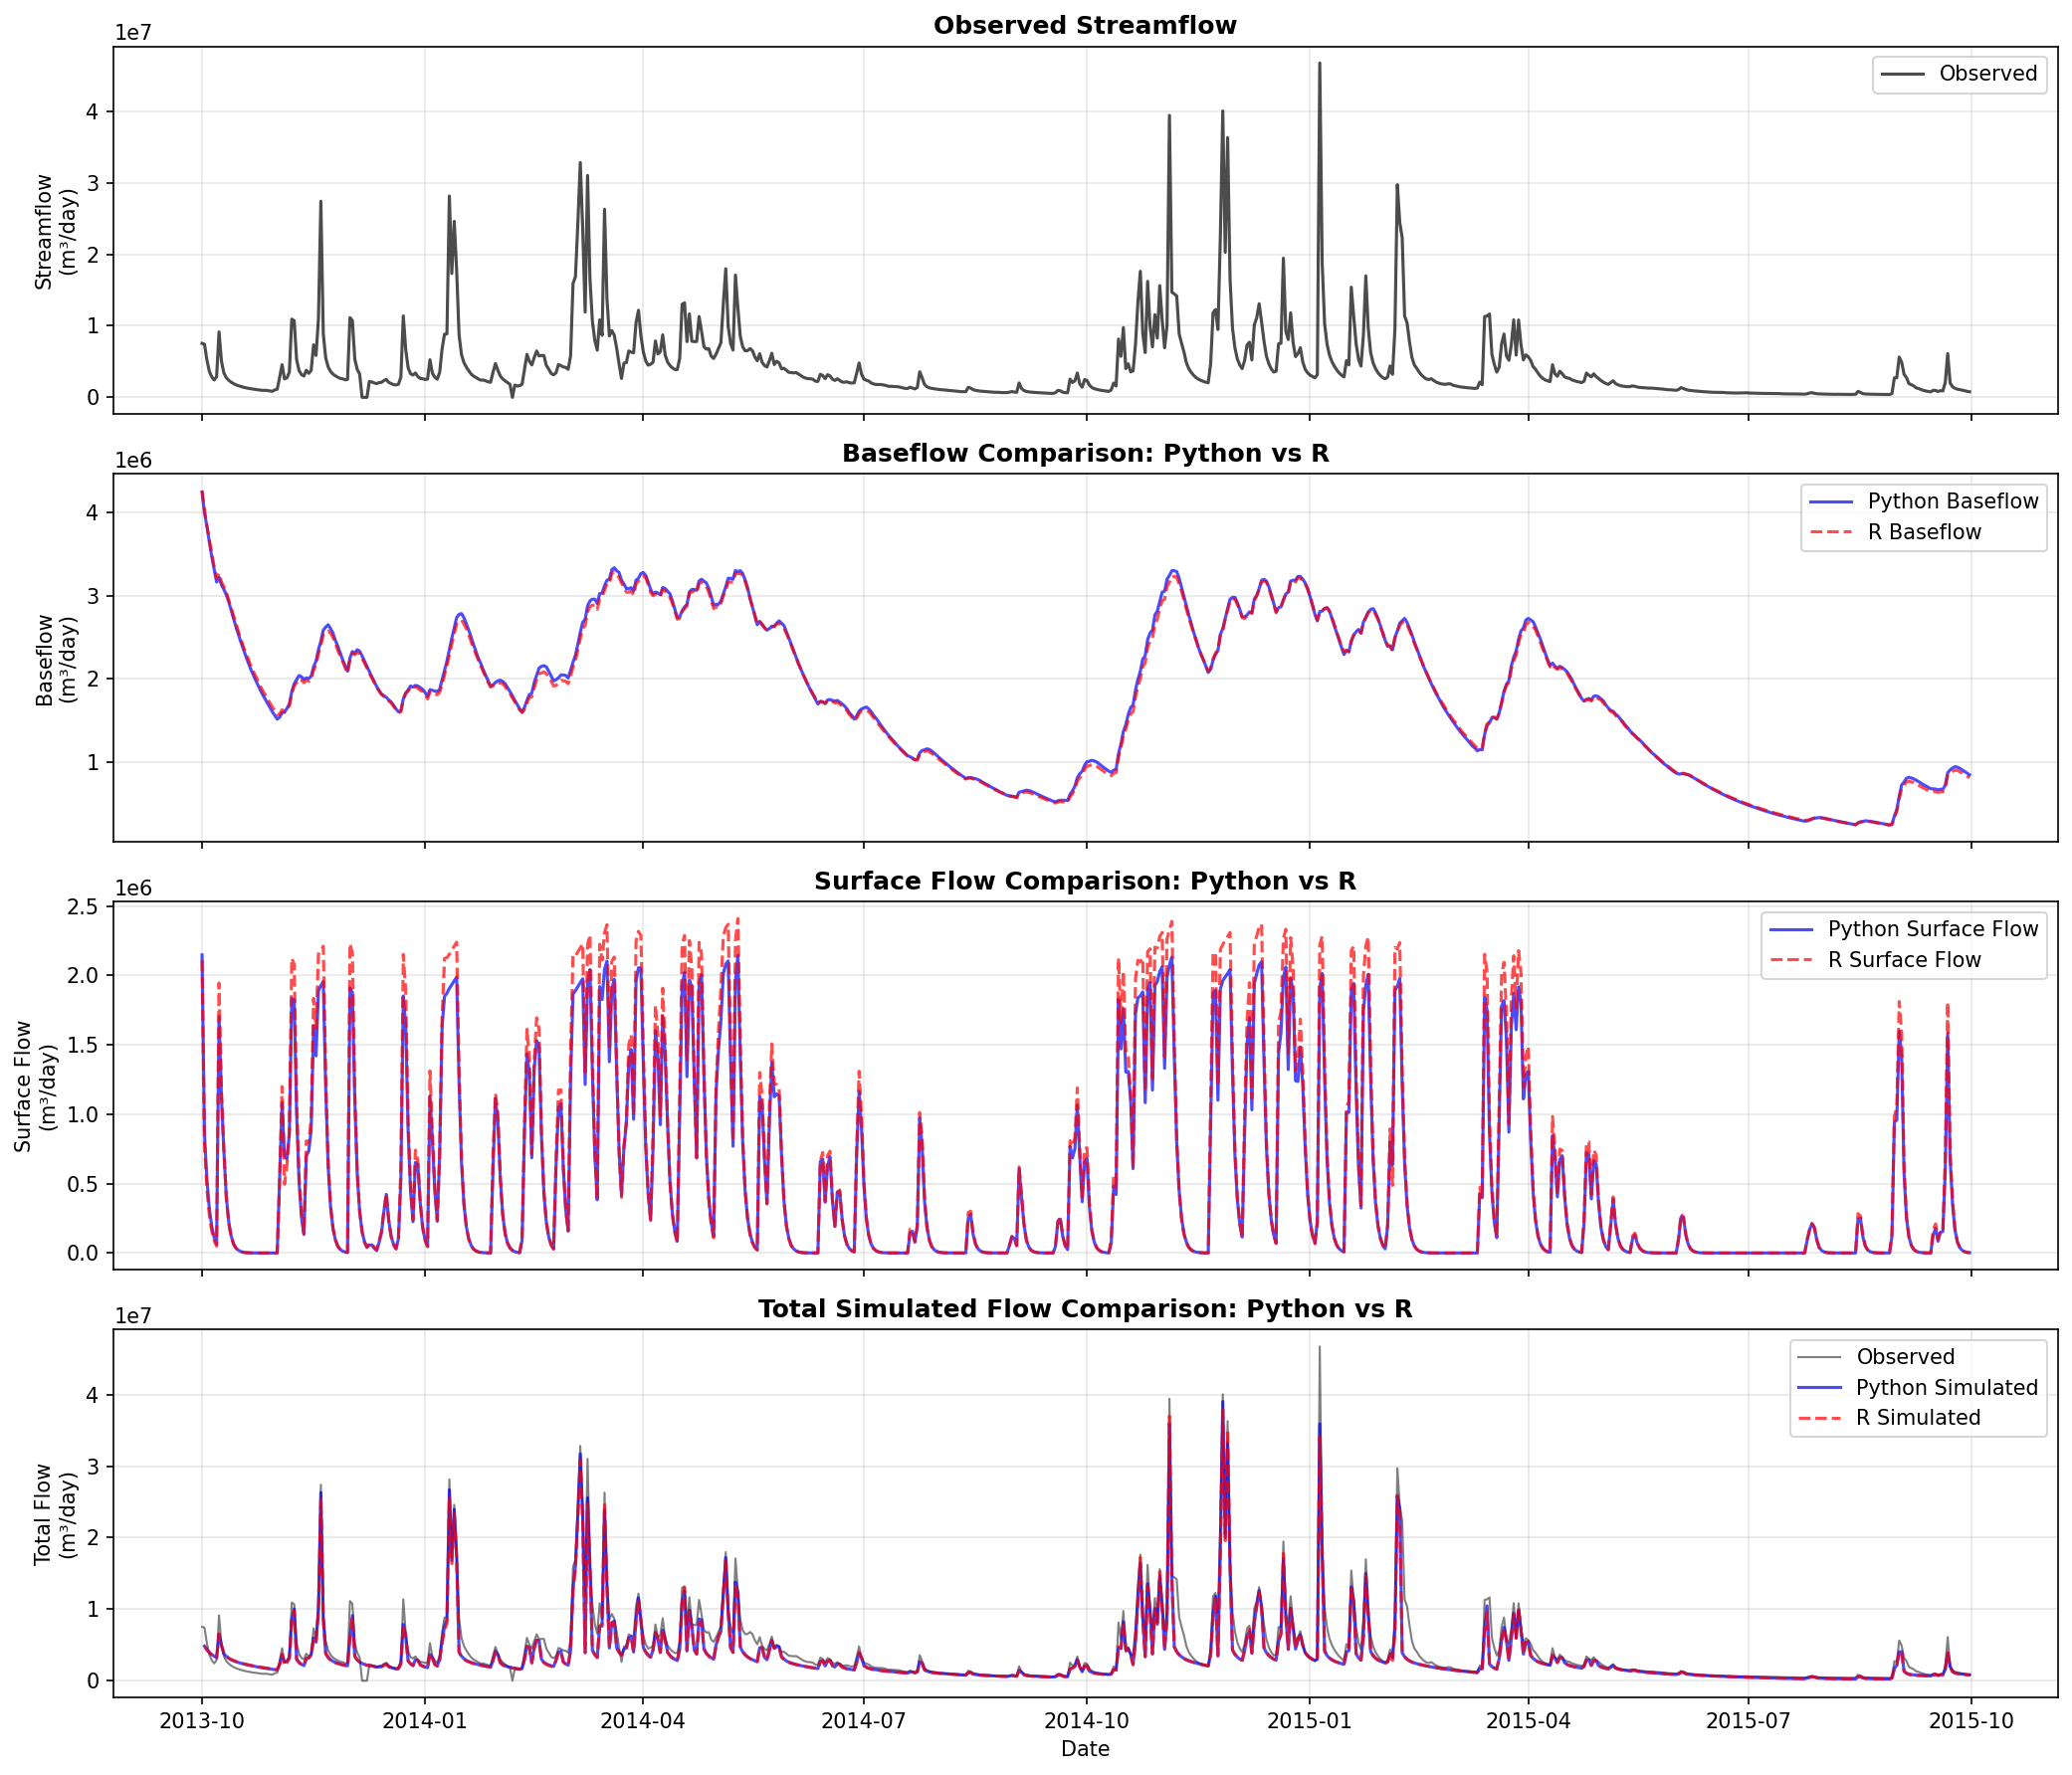
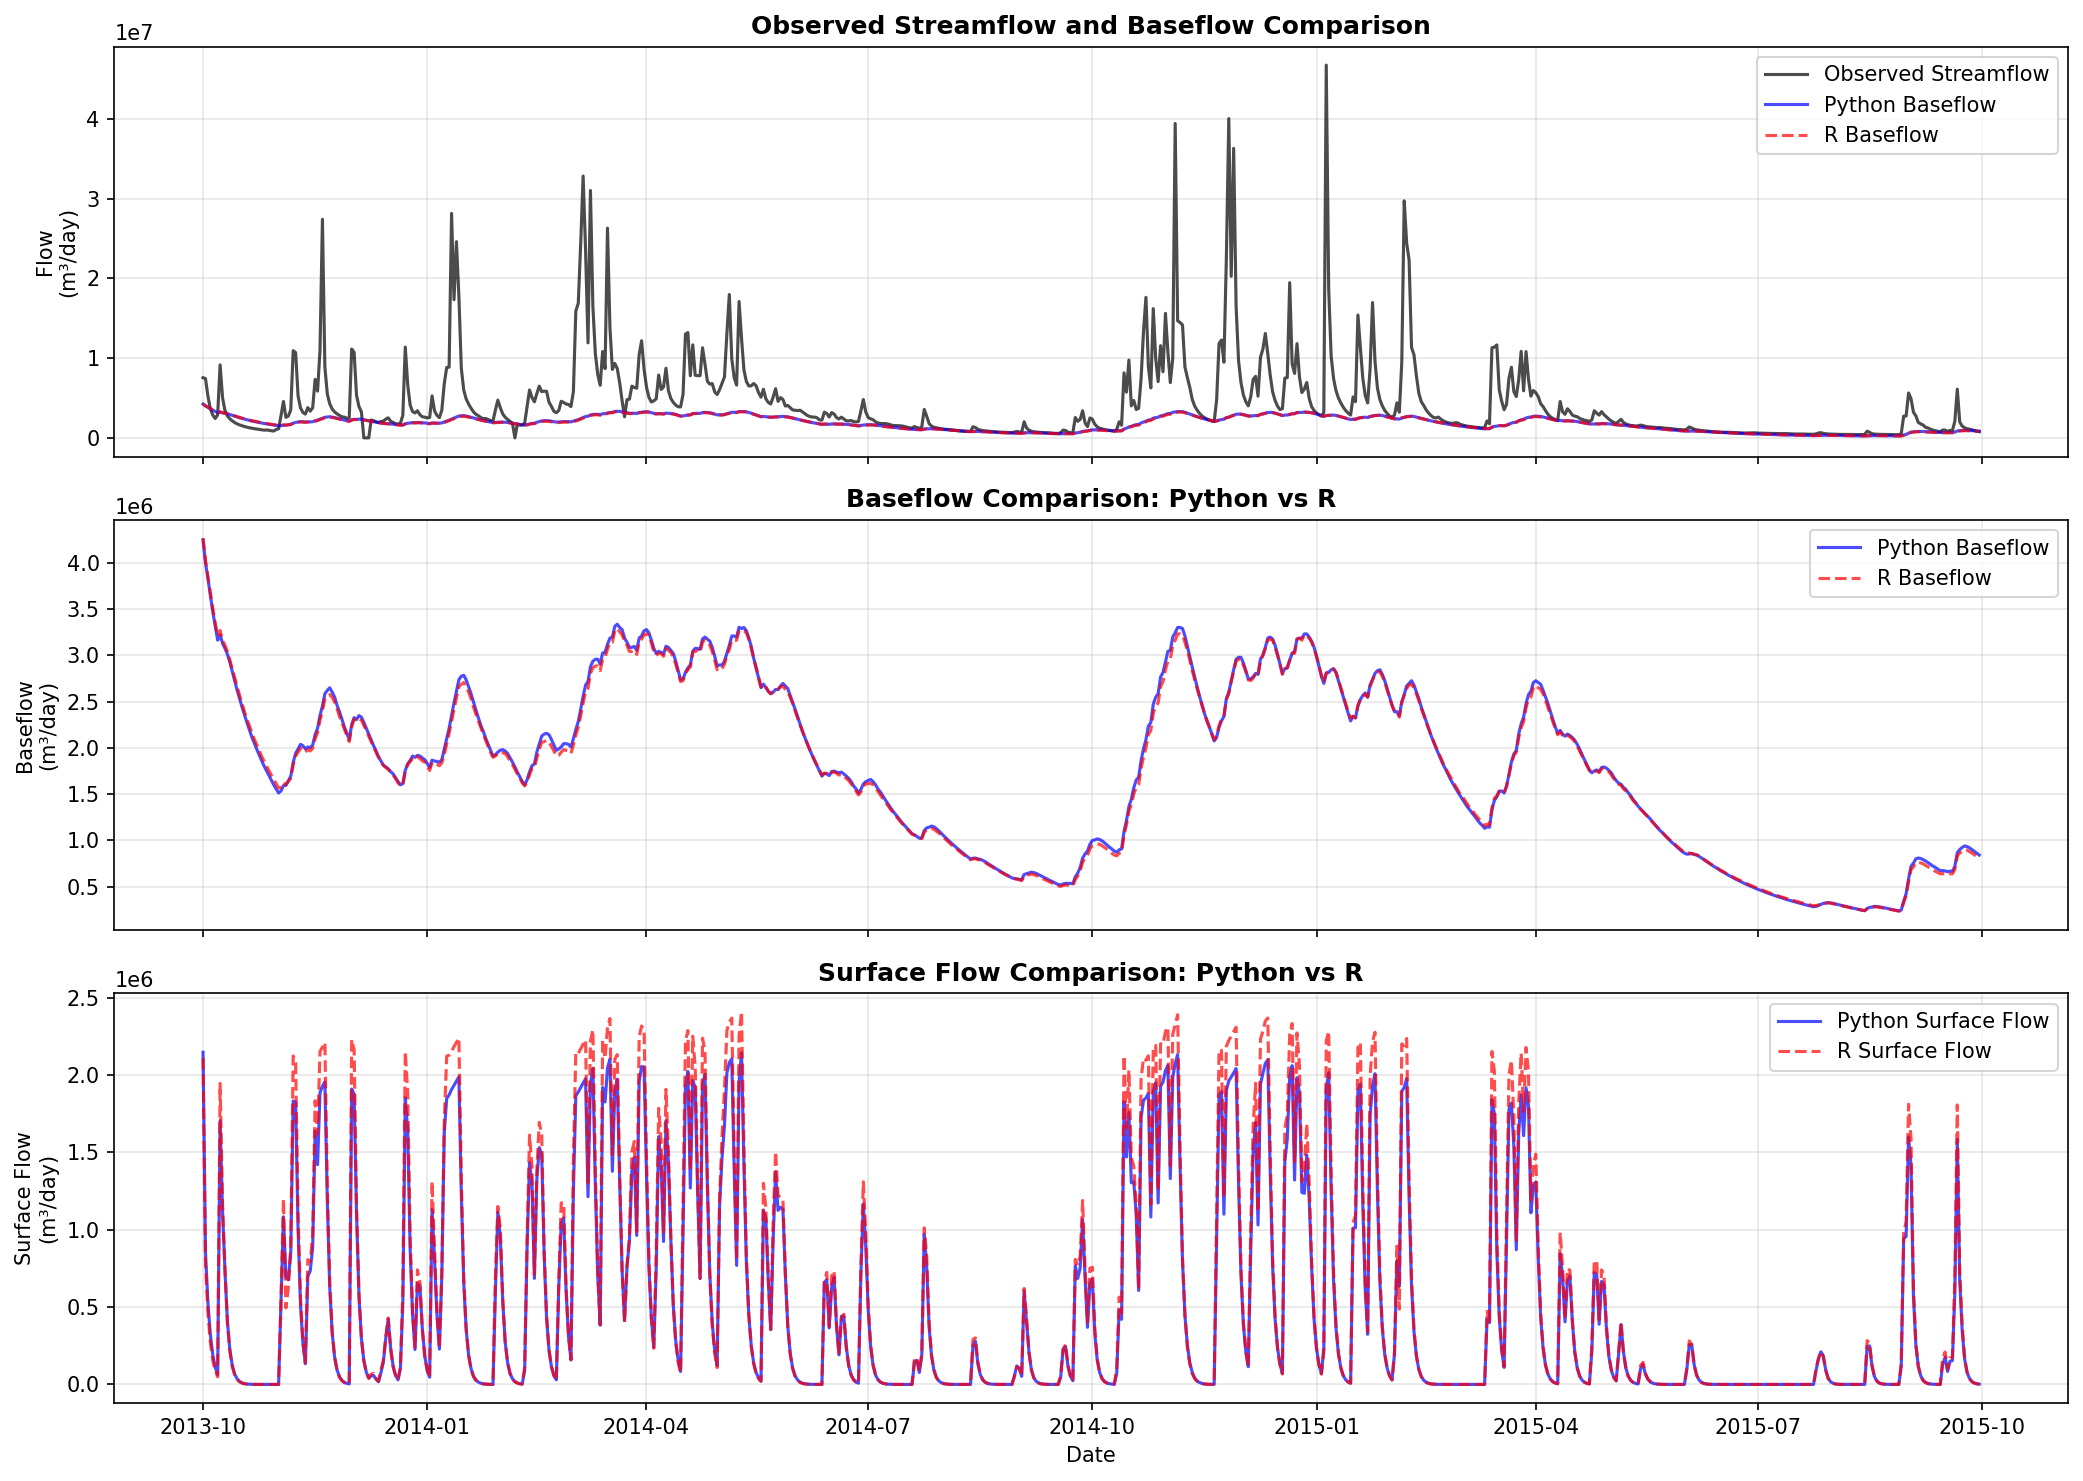
updated the plots produced by main_calib.py and give a slow speed warning if numba is not installed.

diff --git a/main_calib.py b/main_calib.py
@@ -16,6 +16,25 @@ import pybfs
 def main():
     """Main execution function for calibration testing"""
 
+    # Check for NUMBA installation
+    try:
+        import numba
+        numba_installed = True
+    except ImportError:
+        numba_installed = False
+    
+    if not numba_installed:
+        print("\n" + "="*80)
+        print(" " * 20 + "⚠️  WARNING: NUMBA NOT INSTALLED ⚠️")
+        print("="*80)
+        print("\n" + " " * 10 + "NUMBA is not installed on this system.")
+        print(" " * 10 + "The calibration process will be VERY SLOW without NUMBA.")
+        print(" " * 10 + "Installation is strongly recommended for reasonable performance.")
+        print("\n" + " " * 10 + "To install NUMBA, run:")
+        print(" " * 10 + "    pip install numba")
+        print("\n" + " " * 10 + "Continuing with calibration (this may take a very long time)...")
+        print("="*80 + "\n")
+
     # Site information
     site_id = "12167000"
     site_area = 6.71e+08  # m² (from siteinfo file)
@@ -277,7 +296,7 @@ def main():
             
             # Create comparison plot
             print("Creating comparison plot...")
-            fig, axes = plt.subplots(4, 1, figsize=(14, 12), sharex=True)
+            fig, axes = plt.subplots(3, 1, figsize=(14, 10), sharex=True)
             
             # Determine column names (handle both formats)
             qob_col = 'Qob' if 'Qob' in py_bfs_out.columns else 'Qob.L3'
@@ -287,10 +306,18 @@ def main():
             
             dates = py_bfs_out['Date'].values
             
-            # Plot 1: Observed Streamflow
-            axes[0].plot(dates, py_bfs_out[qob_col].values, 'k-', linewidth=1.5, label='Observed', alpha=0.7)
-            axes[0].set_ylabel('Streamflow\n(m³/day)', fontsize=10)
-            axes[0].set_title('Observed Streamflow', fontsize=12, fontweight='bold')
+            # Calculate total simulated flow for statistics (not plotted)
+            py_qsim = py_bfs_out[baseflow_col].values + py_bfs_out[surface_col].values + py_bfs_out[direct_col].values
+            r_qsim = r_bfs_out[baseflow_col].values + r_bfs_out[surface_col].values + r_bfs_out[direct_col].values
+            
+            # Plot 1: Observed Streamflow with R and Python Baseflow
+            axes[0].plot(dates, py_bfs_out[qob_col].values, 'k-', linewidth=1.5, label='Observed Streamflow', alpha=0.7)
+            axes[0].plot(dates, py_bfs_out[baseflow_col].values, 'b-', linewidth=1.5, 
+                        label='Python Baseflow', alpha=0.7)
+            axes[0].plot(dates, r_bfs_out[baseflow_col].values, 'r--', linewidth=1.5, 
+                        label='R Baseflow', alpha=0.7)
+            axes[0].set_ylabel('Flow\n(m³/day)', fontsize=10)
+            axes[0].set_title('Observed Streamflow and Baseflow Comparison', fontsize=12, fontweight='bold')
             axes[0].grid(True, alpha=0.3)
             axes[0].legend()
             
@@ -310,21 +337,10 @@ def main():
             axes[2].plot(dates, r_bfs_out[surface_col].values, 'r--', linewidth=1.5, 
                         label='R Surface Flow', alpha=0.7)
             axes[2].set_ylabel('Surface Flow\n(m³/day)', fontsize=10)
+            axes[2].set_xlabel('Date', fontsize=10)
             axes[2].set_title('Surface Flow Comparison: Python vs R', fontsize=12, fontweight='bold')
             axes[2].grid(True, alpha=0.3)
             axes[2].legend()
-            
-            # Plot 4: Total Simulated Flow Comparison
-            py_qsim = py_bfs_out[baseflow_col].values + py_bfs_out[surface_col].values + py_bfs_out[direct_col].values
-            r_qsim = r_bfs_out[baseflow_col].values + r_bfs_out[surface_col].values + r_bfs_out[direct_col].values
-            axes[3].plot(dates, py_bfs_out[qob_col].values, 'k-', linewidth=1, label='Observed', alpha=0.5)
-            axes[3].plot(dates, py_qsim, 'b-', linewidth=1.5, label='Python Simulated', alpha=0.7)
-            axes[3].plot(dates, r_qsim, 'r--', linewidth=1.5, label='R Simulated', alpha=0.7)
-            axes[3].set_ylabel('Total Flow\n(m³/day)', fontsize=10)
-            axes[3].set_xlabel('Date', fontsize=10)
-            axes[3].set_title('Total Simulated Flow Comparison: Python vs R', fontsize=12, fontweight='bold')
-            axes[3].grid(True, alpha=0.3)
-            axes[3].legend()
             
             plt.tight_layout()
             plot_filename = f'bfs_comparison_{site_id}.png'